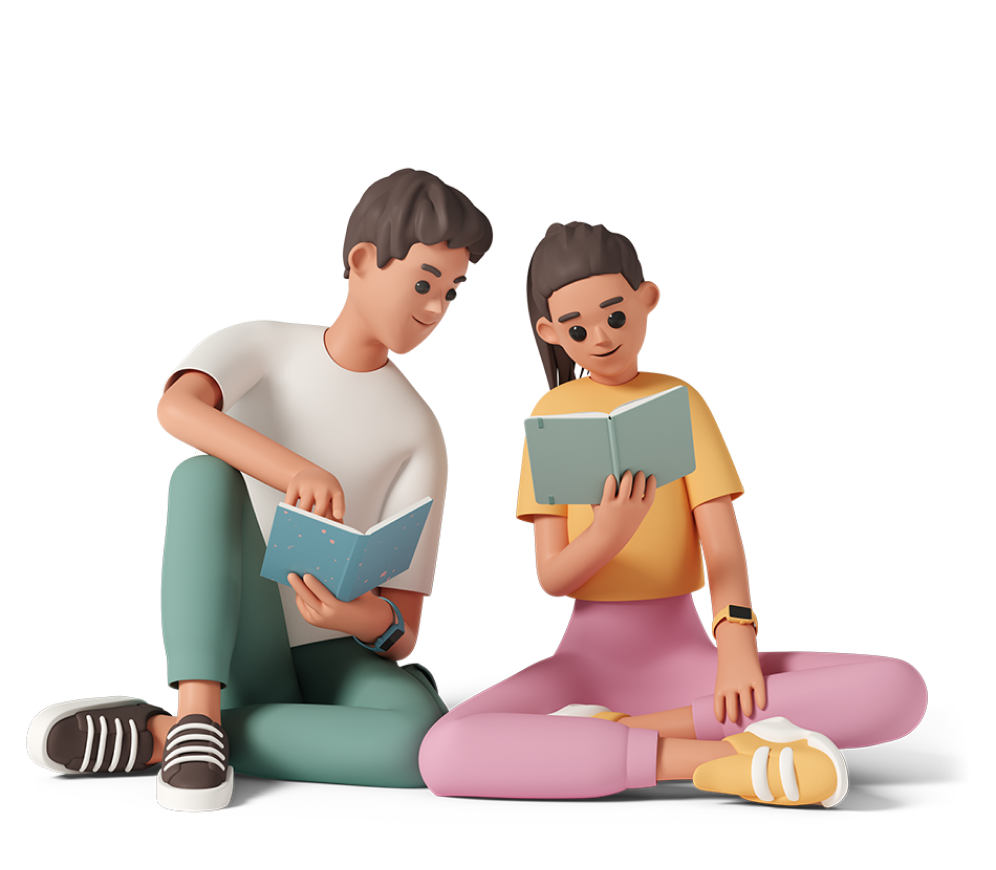
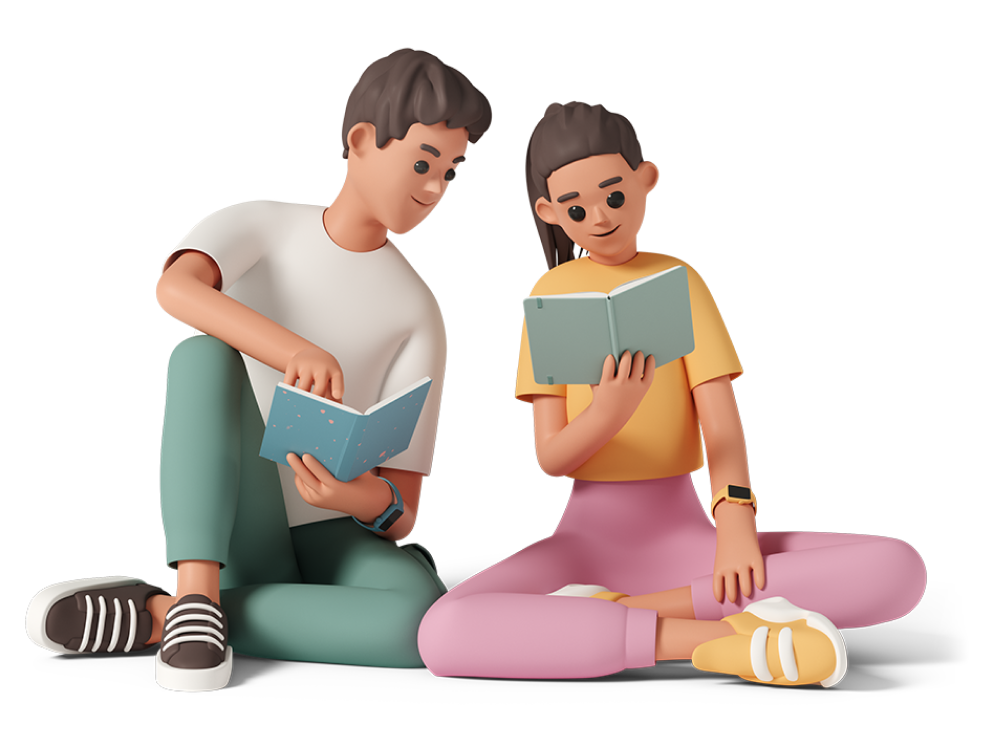
fix: reading image

Changed region(s): [[0.0312, 0.0614, 0.9668, 0.9519]]

diff --git a/app/(auth)/_components/auth-image.tsx b/app/(auth)/_components/auth-image.tsx
@@ -3,9 +3,9 @@ import Image from "next/image";
 const AuthImage = () => {
   return (
     <Image
-      className="w-[247px] h-[191px] lg:h-[435px] lg:w-[498px]"
+      className="w-[247px] h-[191px] lg:h-[405px] lg:w-[498px]"
       width={498}
-      height={435}
+      height={405}
       alt="Reading book"
       src="/reading.png"
       priority
